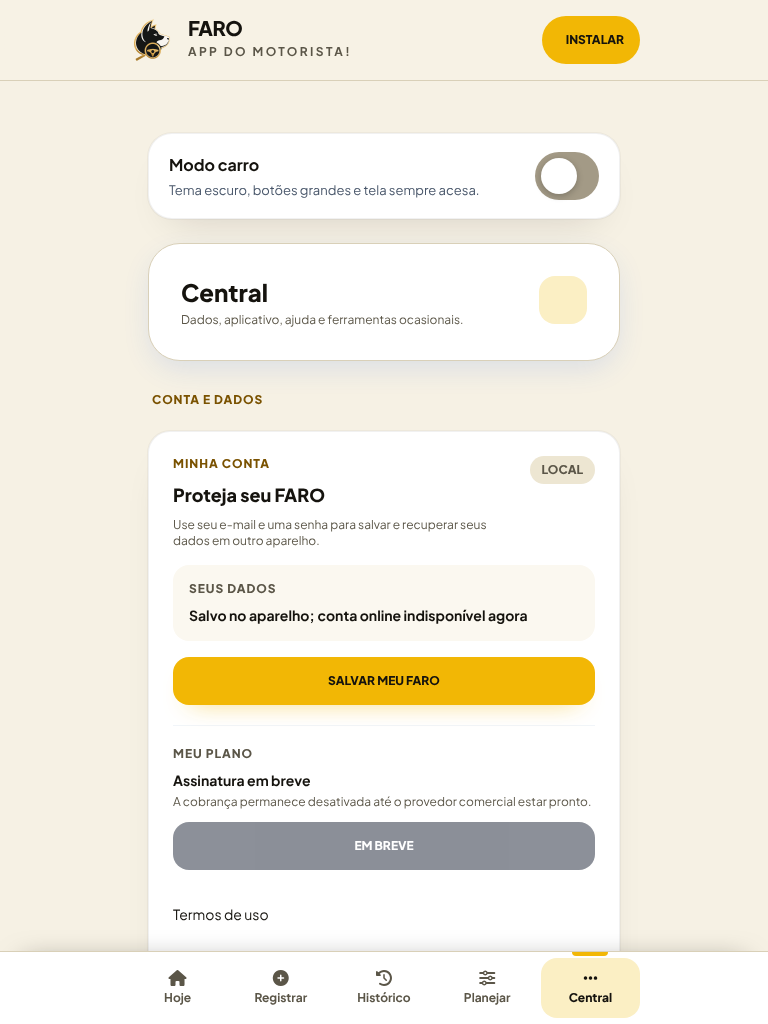
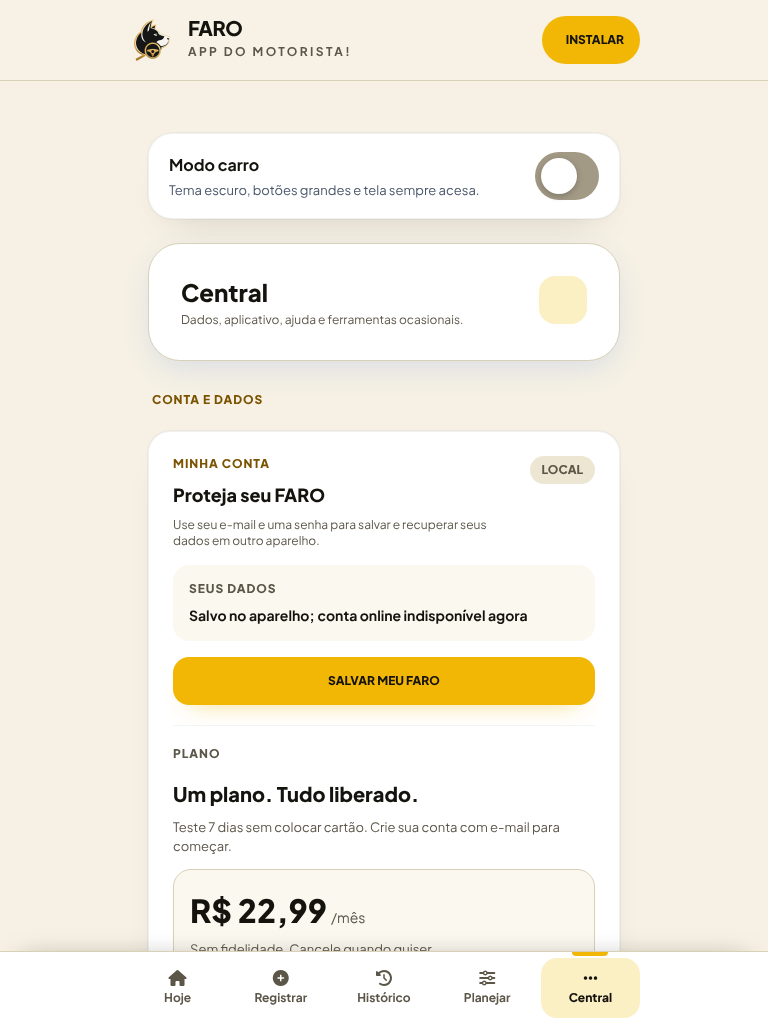
Corrige rolagem horizontal da Conta a 320px (seção de plano)
Claude-Session: https://claude.ai/code/session_01CPX7m46cRthfLWuFdbhywq

Changed region(s): [[0.2188, 0.7188, 0.7812, 0.9375]]

diff --git a/faro-plans.js b/faro-plans.js
@@ -87,7 +87,7 @@
     if (!doc.getElementById('faroPlanStyle')) {
       const style = doc.createElement('style');
       style.id = 'faroPlanStyle';
-      style.textContent = `#faroPlan{display:grid;gap:12px}
+      style.textContent = `#faroPlan{display:grid;grid-template-columns:minmax(0,1fr);gap:12px}#faroPlan *{min-width:0;overflow-wrap:anywhere}
         #faroPlan .faro-plan-head{display:flex;justify-content:space-between;align-items:center;gap:8px}
         #faroPlan .faro-plan-badge{font-size:12px;font-weight:800;padding:4px 10px;border-radius:999px;background:var(--faro-amber-soft);color:var(--faro-amber-text)}
         #faroPlan .faro-plan-badge[data-tone="attention"]{background:var(--faro-loss-soft);color:var(--faro-loss)}
@@ -110,10 +110,10 @@
         #faroPlan .faro-plan-primary:disabled{background:var(--faro-surface-2);color:var(--faro-muted)}
         #faroPlan .faro-plan-secondary{background:var(--faro-black);color:var(--faro-paper)}
         #faroPlan .faro-plan-link{background:transparent;color:var(--faro-amber-text);text-decoration:underline}
-        #faroPlan .faro-plan-code{display:grid;gap:8px}#faroPlan .faro-plan-code label{font-size:13px;font-weight:700}
+        #faroPlan .faro-plan-code{display:grid;grid-template-columns:minmax(0,1fr);gap:8px}#faroPlan .faro-plan-code label{font-size:13px;font-weight:700}
         #faroPlan .faro-plan-code-row{display:flex;gap:8px}
-        #faroPlan .faro-plan-code-row input{flex:1;min-width:0;min-height:48px;font-size:16px;text-transform:uppercase;padding:0 12px;border-radius:14px;border:1px solid var(--faro-line);background:var(--faro-surface);color:var(--faro-ink)}
-        #faroPlan .faro-plan-code-row button{padding:0 16px;background:var(--faro-black);color:var(--faro-paper)}
+        #faroPlan .faro-plan-code-row input{flex:1;width:0;min-width:0;min-height:48px;font-size:16px;text-transform:uppercase;padding:0 12px;border-radius:14px;border:1px solid var(--faro-line);background:var(--faro-surface);color:var(--faro-ink)}
+        #faroPlan .faro-plan-code-row button{flex:none;padding:0 16px;background:var(--faro-black);color:var(--faro-paper)}
         #faroPlan :focus-visible{outline:2px solid var(--faro-focus);outline-offset:2px}`;
       doc.head.appendChild(style);
     }
